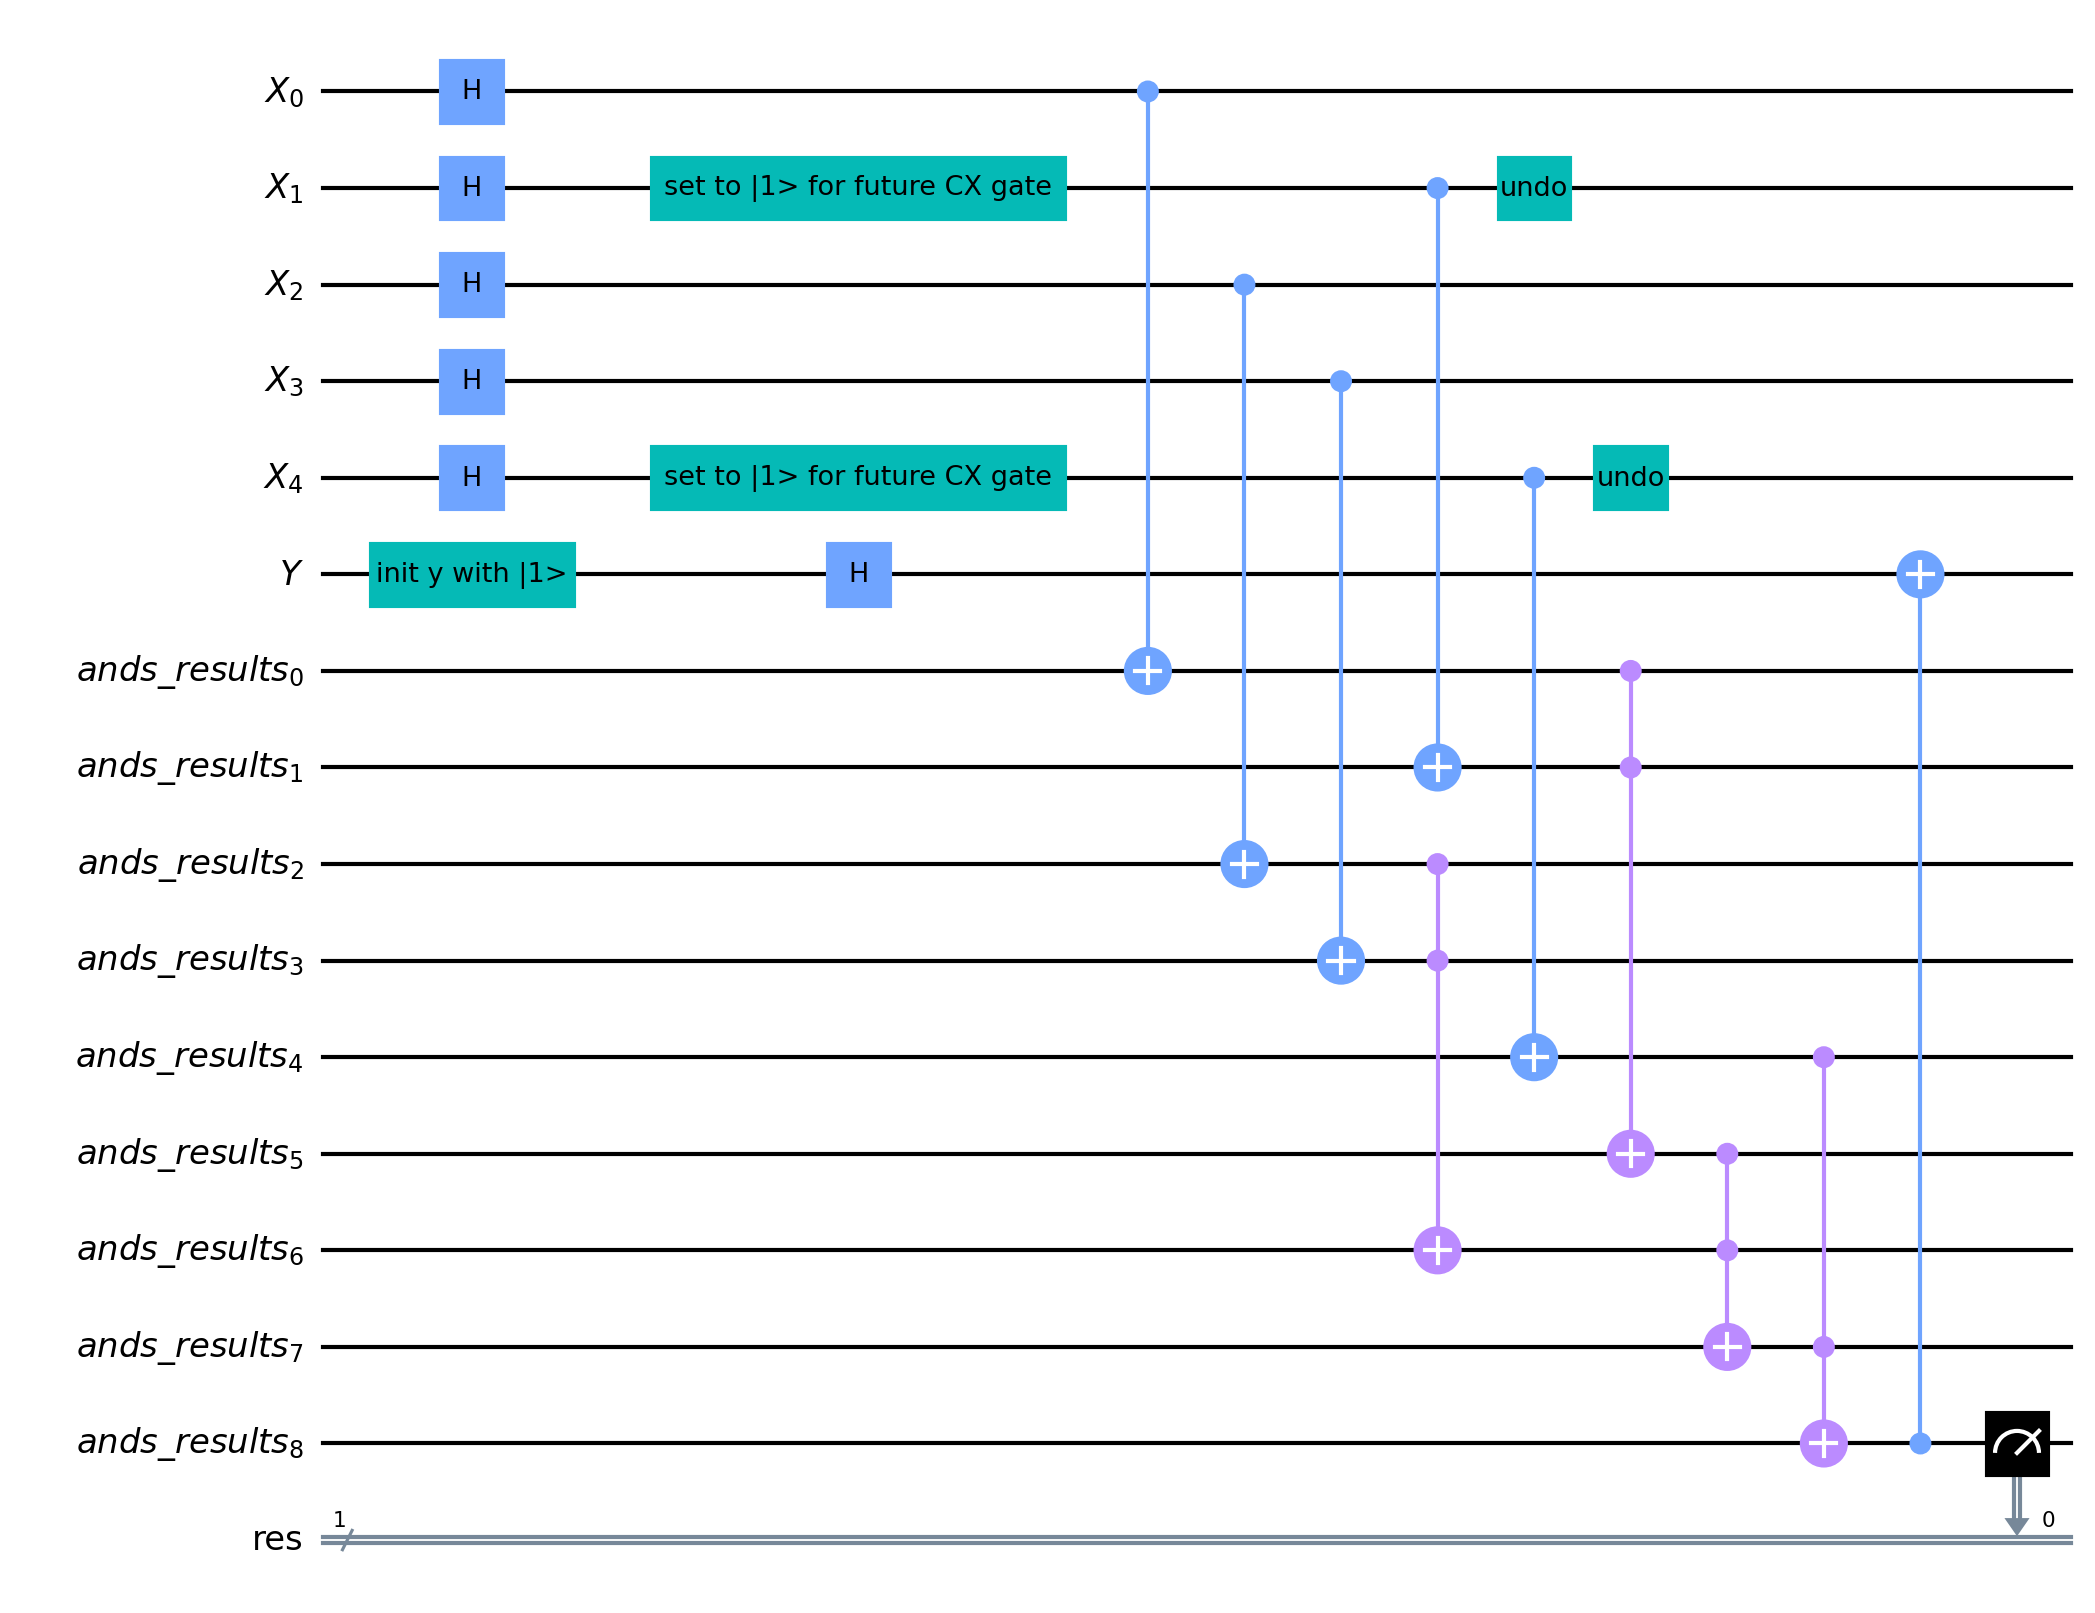
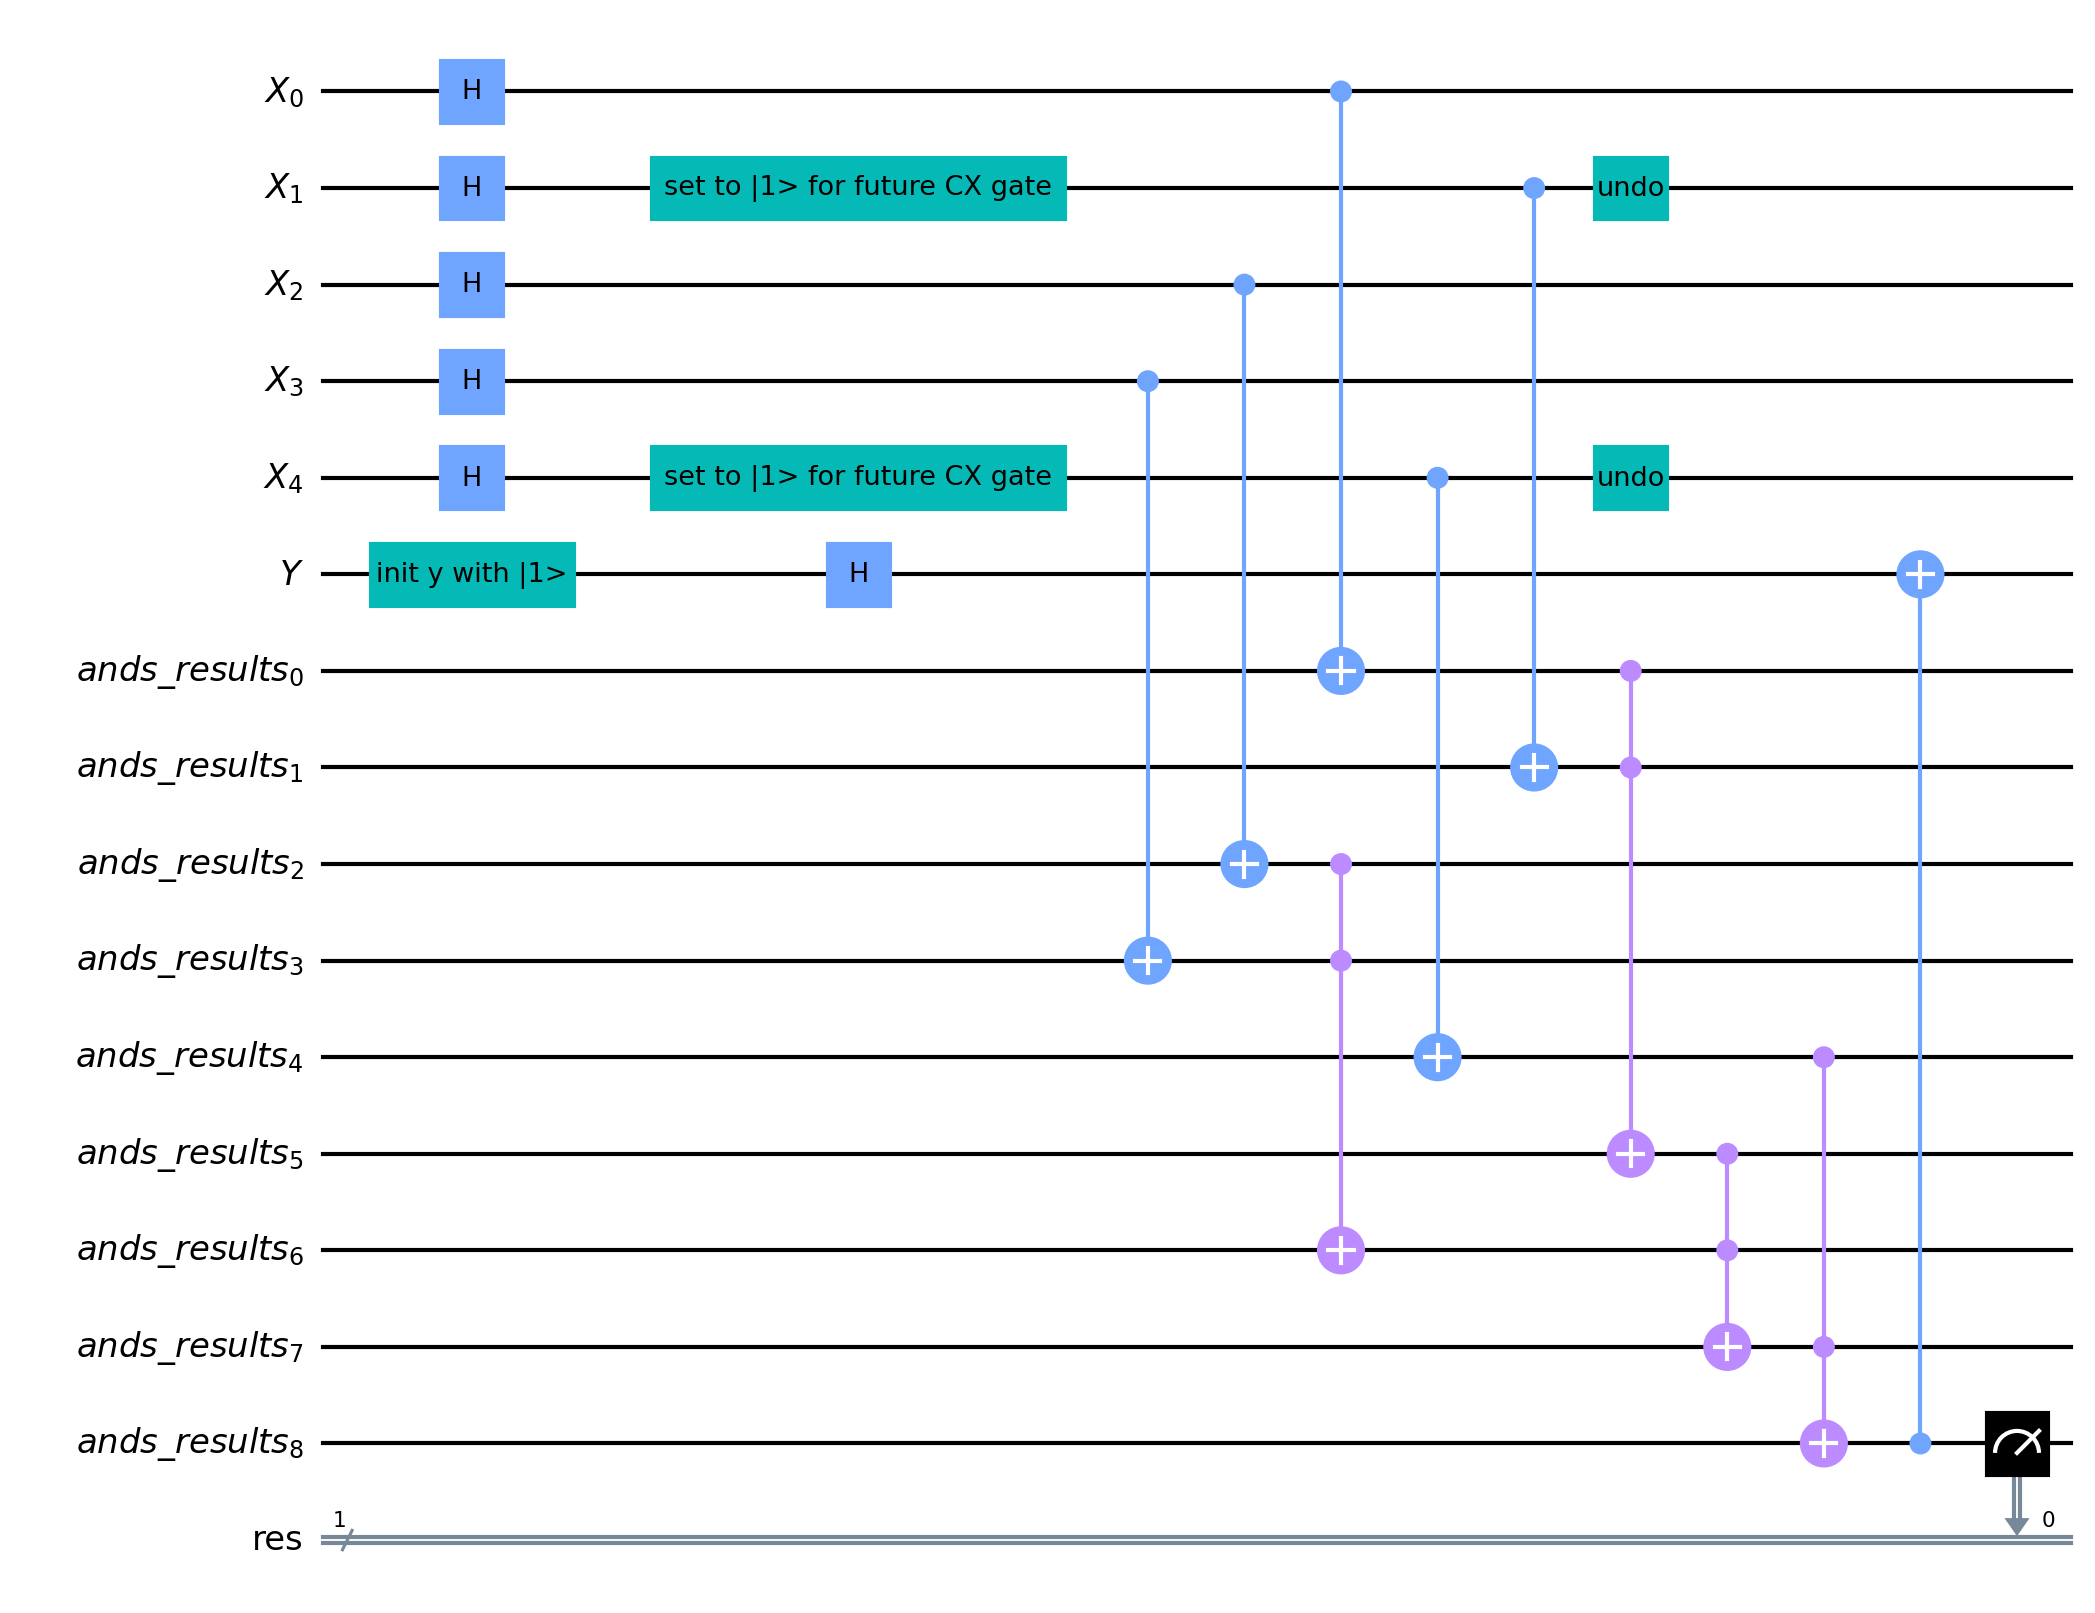
Adam => adding for loop in order to be able to change target more easily

diff --git a/TP2/oracle.py b/TP2/oracle.py
@@ -4,12 +4,14 @@ from qiskit_aer import QasmSimulator
 from qiskit.visualization import plot_histogram
 
 # Use Aer's qasm_simulator
+target = '01101'
 simulator = QasmSimulator()
 # Create quantum program that find 01101 by reversing its phase
-x = QuantumRegister(5, name='X')  # 5 qubits index 0 is the right most qubit
+x = QuantumRegister(len(target), name='X')  # 5 qubits index 0 is the right most qubit
 y = QuantumRegister(1, name='Y')
 ands_results = QuantumRegister(9, name='ands_results')
 res = ClassicalRegister(1, name='res')
+
 oracle = QuantumCircuit(x, y, ands_results, res, name='oracle')
 
 oracle.x(y, 'init y with |1>')
@@ -18,19 +20,14 @@ oracle.h(x)
 oracle.h(y)
 
 # Ensure each bit is correct in ands_results
-oracle.cx(x[0], ands_results[0])  # ands_results[0] will be at |1> if x[0] is at |1>
-
-oracle.x(x[1], 'set to |1> for future CX gate')
-oracle.cx(x[1], ands_results[1])  # ands_results[1] will be at |1> if x[1] is at |0>
-oracle.x(x[1], 'undo')  # Reset x[1]
-
-oracle.cx(x[2], ands_results[2])  # ands_results[2] will be at |1> if x[2] is at |1>
-
-oracle.cx(x[3], ands_results[3])  # ands_results[3] will be at |1> if x[3] is at |1>
-
-oracle.x(x[4], 'set to |1> for future CX gate')
-oracle.cx(x[4], ands_results[4])  # ands_results[4] will be at |1> if x[1] is at |0>
-oracle.x(x[4], 'undo')  # Reset x[4]
+for i in range(len(target)):
+    correct_index = len(target) - i - 1
+    if target[i] == '0':
+        oracle.x(x[correct_index], 'set to |1> for future CX gate')
+        oracle.cx(x[correct_index], ands_results[correct_index])
+        oracle.x(x[correct_index], 'undo')  # Reset x[i]
+    else:
+        oracle.cx(x[correct_index], ands_results[correct_index])
 
 # ands_results from 0 to 4 are all to |1> if x is 01101
 # We now have to apply ANDS gates to ands_results
